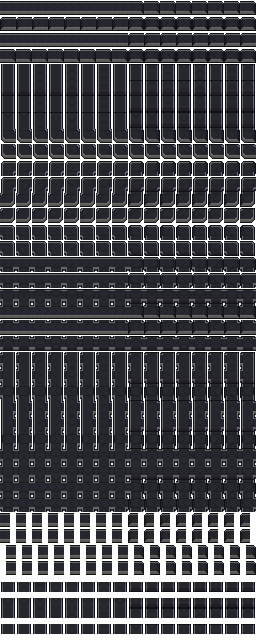
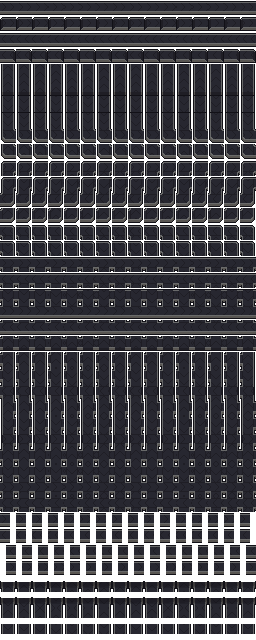
Improve conveyor sprites and underground belt item exit slightly

diff --git a/art/conveyors/conveyor_postprocess.py b/art/conveyors/conveyor_postprocess.py
@@ -19,7 +19,7 @@ from dataclasses import dataclass
 from PIL import Image
 import sys
 import json
-from typing import Optional, TypedDict, cast
+from typing import NamedTuple, Optional, TypedDict, cast
 
 class Size(TypedDict):
     w: int
@@ -76,6 +76,10 @@ class ProcessedFrameTags:
     color: str
     frames: list[Image.Image]
 
+class LayerResult(NamedTuple):
+    img: Image.Image
+    overlay: Image.Image
+
 def get_animation_frame_count(frame_tags: list[AsepriteFrameTags]) -> int:
     "Get the number of frames in each animation frame set. All sets must be the same length."
     first_tag: AsepriteFrameTags | None = None
@@ -94,7 +98,7 @@ def get_animation_frame_count(frame_tags: list[AsepriteFrameTags]) -> int:
     
     return first_tag["to"] - first_tag["from"] + 1
 
-def get_animation_frames(frames: list[AsepriteFrame], img: Image.Image, frame_tags: list[AsepriteFrameTags]) -> dict[str, ProcessedFrameTags]:
+def get_animation_frames(frames: list[AsepriteFrame], layers: LayerResult, frame_tags: list[AsepriteFrameTags]) -> dict[str, ProcessedFrameTags]:
     "Map from color to frame tags, where the color is formatted as #rrggbbaa with alpha as ff in all the tags used."
     
     animation_frame_set: dict[str, ProcessedFrameTags] = {}
@@ -112,7 +116,8 @@ def get_animation_frames(frames: list[AsepriteFrame], img: Image.Image, frame_ta
             end=tag["to"],
             color=color,
             frames=[
-                img.crop((
+                # meh we just don't care about alpha blending for animation frames
+                layers.img.crop((
                     frames[i]["frame"]["x"],
                     frames[i]["frame"]["y"],
                     frames[i]["frame"]["x"] + frames[i]["frame"]["w"],
@@ -140,10 +145,10 @@ def get_normal_frame_count(frame_tags: list[AsepriteFrameTags]) -> int:
         count += tag["to"] - tag["from"] + 1
     return count
     
-def get_normal_frames(frames: list[AsepriteFrame], img: Image.Image, frame_tags: list[AsepriteFrameTags]) -> list[Image.Image]:
+def get_normal_frames(frames: list[AsepriteFrame], img: LayerResult, frame_tags: list[AsepriteFrameTags]) -> list[LayerResult]:
     "Get all the normal frames under the tag NORMAL_FRAMES_TAG"
     
-    normal_frames: list[Image.Image] = []
+    normal_frames: list[LayerResult] = []
     
     normal_tags = get_normal_tags(frame_tags)
     if len(normal_tags) == 0:
@@ -151,17 +156,19 @@ def get_normal_frames(frames: list[AsepriteFrame], img: Image.Image, frame_tags:
 
     for tag in normal_tags:
         for i in range(tag["from"], tag["to"] + 1):
-            normal_frames.append(img.crop((
+            crop = (
                 frames[i]["frame"]["x"],
                 frames[i]["frame"]["y"],
                 frames[i]["frame"]["x"] + frames[i]["frame"]["w"],
                 frames[i]["frame"]["y"] + frames[i]["frame"]["h"],
-            )))
+            )
+            normal_frames.append(LayerResult(img.img.crop(crop), img.overlay.crop(crop)))
     
     return normal_frames
 
-def preprocess_combine_layers(img: Image.Image, layers: list[AsepriteLayer], frames: list[AsepriteFrame], layer_combination: set[str]) -> Image.Image:
+def preprocess_combine_layers(img: Image.Image, layers: list[AsepriteLayer], frames: list[AsepriteFrame], layer_combination: set[str]) -> LayerResult:
     out_img = Image.new("RGBA", (img.size[0], img.size[1] // len(layers)), (0, 0, 0, 0))
+    out_overlay = Image.new("RGBA", (img.size[0], img.size[1] // len(layers)), (0, 0, 0, 0))
     
     # For every frame, combine the visible layers. Put the result at the same position as the first occurance of each layer
     # There's a bit of custom logic here, then, too: pixels of exactly (255, 0, 0, 128) are used to indicate a "mask" which
@@ -196,11 +203,24 @@ def preprocess_combine_layers(img: Image.Image, layers: list[AsepriteLayer], fra
                 new_y = frame["frame"]["y"] % out_img.size[1] + y
                 if pixel == (255, 0, 0, 128):
                     out_img.putpixel((new_x, new_y), (0, 0, 0, 0))
-                elif pixel[3] > 0:
-                    # This doesn't do alpha blending, but whatever
+                elif pixel[3] == 255:
                     out_img.putpixel((new_x, new_y), pixel)
+                elif pixel[3] > 0:
+                    out_overlay.putpixel((new_x, new_y), pixel)
     
-    return out_img
+    return LayerResult(out_img, out_overlay)
+
+def alpha_blend(base: tuple[int, int, int, int], overlay: tuple[int, int, int, int]) -> tuple[int, int, int, int]:
+    "simple alpha blending of two colors. Doesn't accout for partial alpha in the base."
+    if base[3] == 0:
+        return overlay
+    
+    alpha = overlay[3] / 255.0
+    inv_alpha = 1.0 - alpha
+    r = int(overlay[0] * alpha + base[0] * inv_alpha)
+    g = int(overlay[1] * alpha + base[1] * inv_alpha)
+    b = int(overlay[2] * alpha + base[2] * inv_alpha)
+    return (r, g, b, 255)
 
 def postprocess_conveyor_sprite(input_image_path: str, input_json_path: str, output_path: str, frame_width=16, frame_height=16):
     img = Image.open(input_image_path).convert("RGBA")
@@ -234,21 +254,22 @@ def postprocess_conveyor_sprite(input_image_path: str, input_json_path: str, out
         
         normal_frame_set = get_normal_frames(filtered_frames, layer_combination_img, data["meta"]["frameTags"])
         print(f"Extracted {len(normal_frame_set)} normal frames")
-        
+    
         for (row, normal_frame) in enumerate(normal_frame_set):
             for x in range(frame_width):
                 for y in range(frame_height):
-                    pixel = cast(tuple[int, int, int], normal_frame.getpixel((x, y)))
+                    pixel = cast(tuple[int, int, int, int], normal_frame.img.getpixel((x, y)))
+                    overlay_pixel = cast(tuple[int, int, int, int], normal_frame.overlay.getpixel((x, y)))
                     hex_color = f"#{pixel[0]:02x}{pixel[1]:02x}{pixel[2]:02x}ff"
                     
                     if hex_color in animation_frame_set:
                         anim_frames = animation_frame_set[hex_color].frames
                         for anim_frame_index in range(animation_frames_count):
-                            anim_pixel = cast(tuple[int, int, int], anim_frames[anim_frame_index].getpixel((x, y)))
-                            out_img.putpixel((combination_x + anim_frame_index * frame_width + x, row * frame_height + y), anim_pixel)
+                            anim_pixel = cast(tuple[int, int, int, int], anim_frames[anim_frame_index].getpixel((x, y)))
+                            out_img.putpixel((combination_x + anim_frame_index * frame_width + x, row * frame_height + y), alpha_blend(anim_pixel, overlay_pixel))
                     else:
                         for anim_frame_index in range(animation_frames_count):
-                            out_img.putpixel((combination_x + anim_frame_index * frame_width + x, row * frame_height + y), pixel)
+                            out_img.putpixel((combination_x + anim_frame_index * frame_width + x, row * frame_height + y), alpha_blend(pixel, overlay_pixel))
 
     out_img.save(output_path)
 
